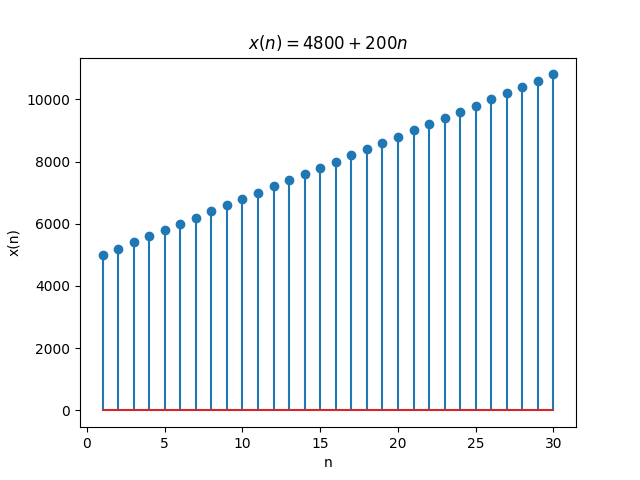
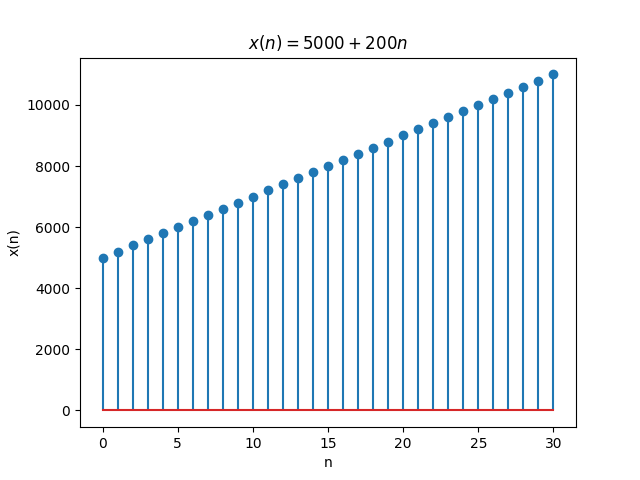
Correct graph title

diff --git a/NCERT-discrete 10.5.2.19/codes/10_5_2_19.py b/NCERT-discrete 10.5.2.19/codes/10_5_2_19.py
@@ -2,10 +2,10 @@ import numpy
 import matplotlib.pyplot as plt
 
 # X-axis
-n = numpy.arange(1, 31, 1)
+n = numpy.arange(0, 31, 1)
 
 # Y-axis
-x = 4800 + 200 * n
+x = 5000 + 200 * n
 
 # Plot graph
 plt.stem(n, x)
@@ -15,7 +15,7 @@ plt.xlabel("n")
 plt.ylabel("x(n)")
 
 # Title
-plt.title("$x(n) = 4800 + 200n$")
+plt.title("$x(n) = 5000 + 200n$")
 
 # Save x(n) vs n graph
 plt.savefig("../figs/10_5_2_19.png")
